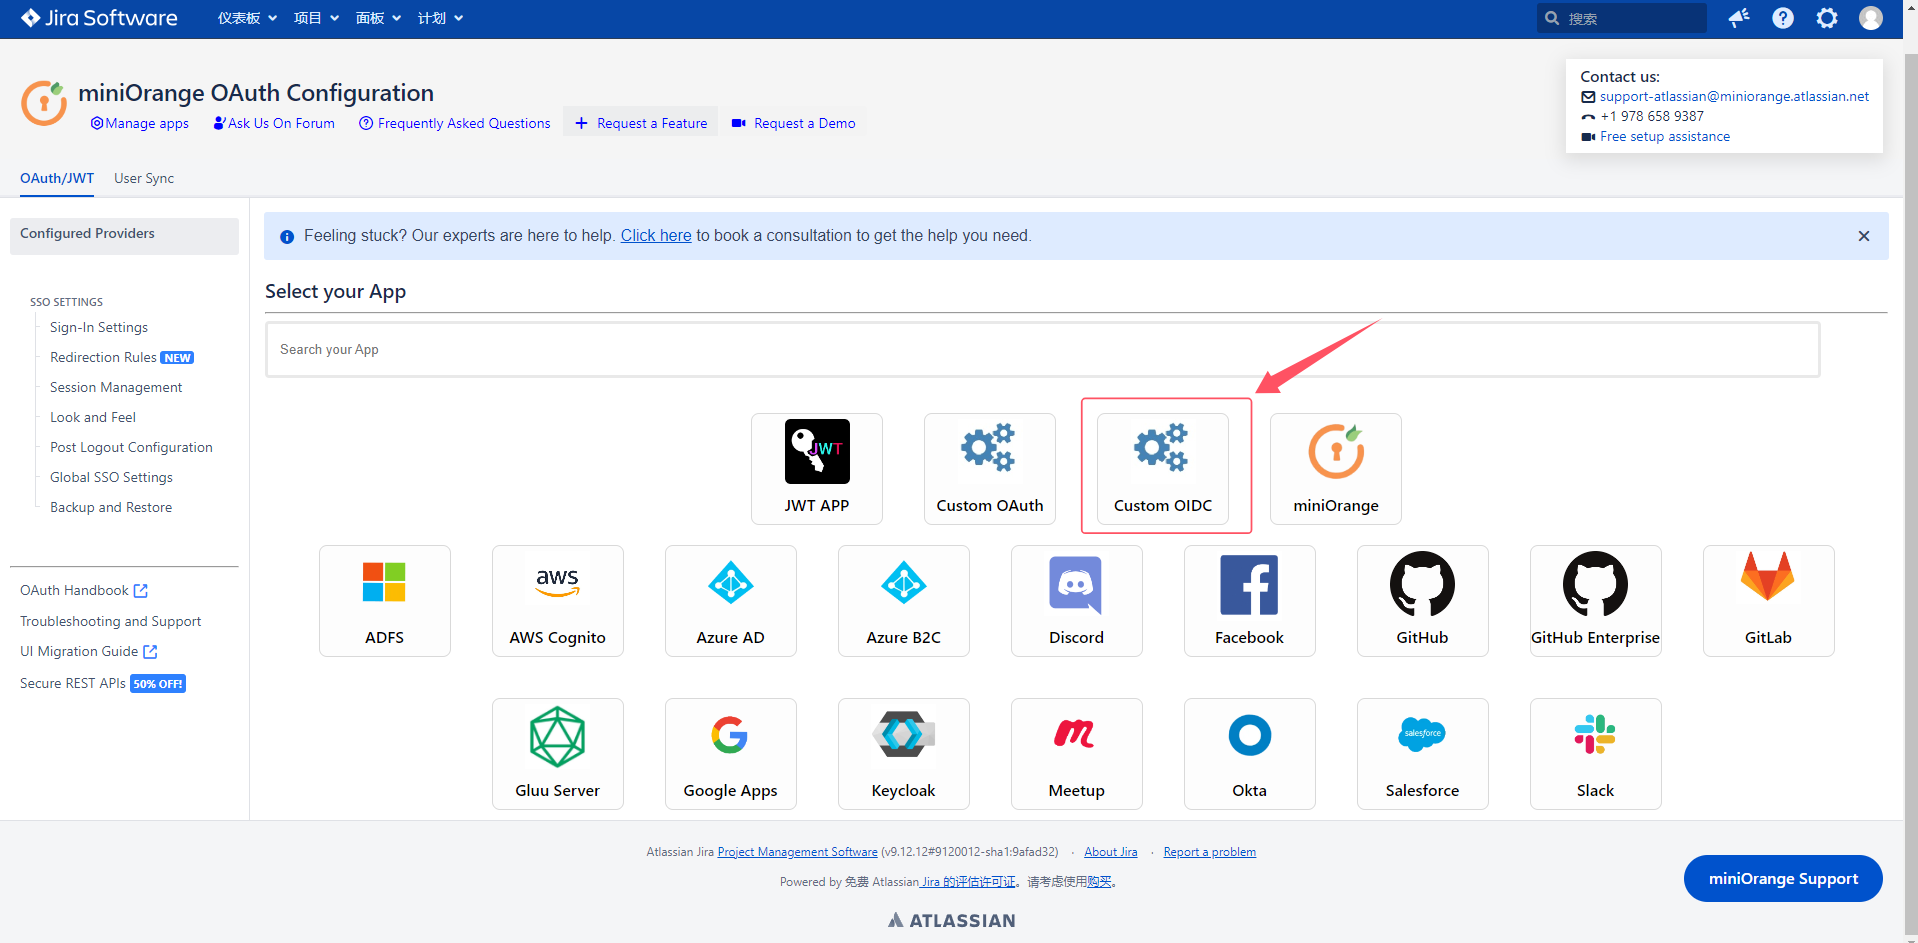
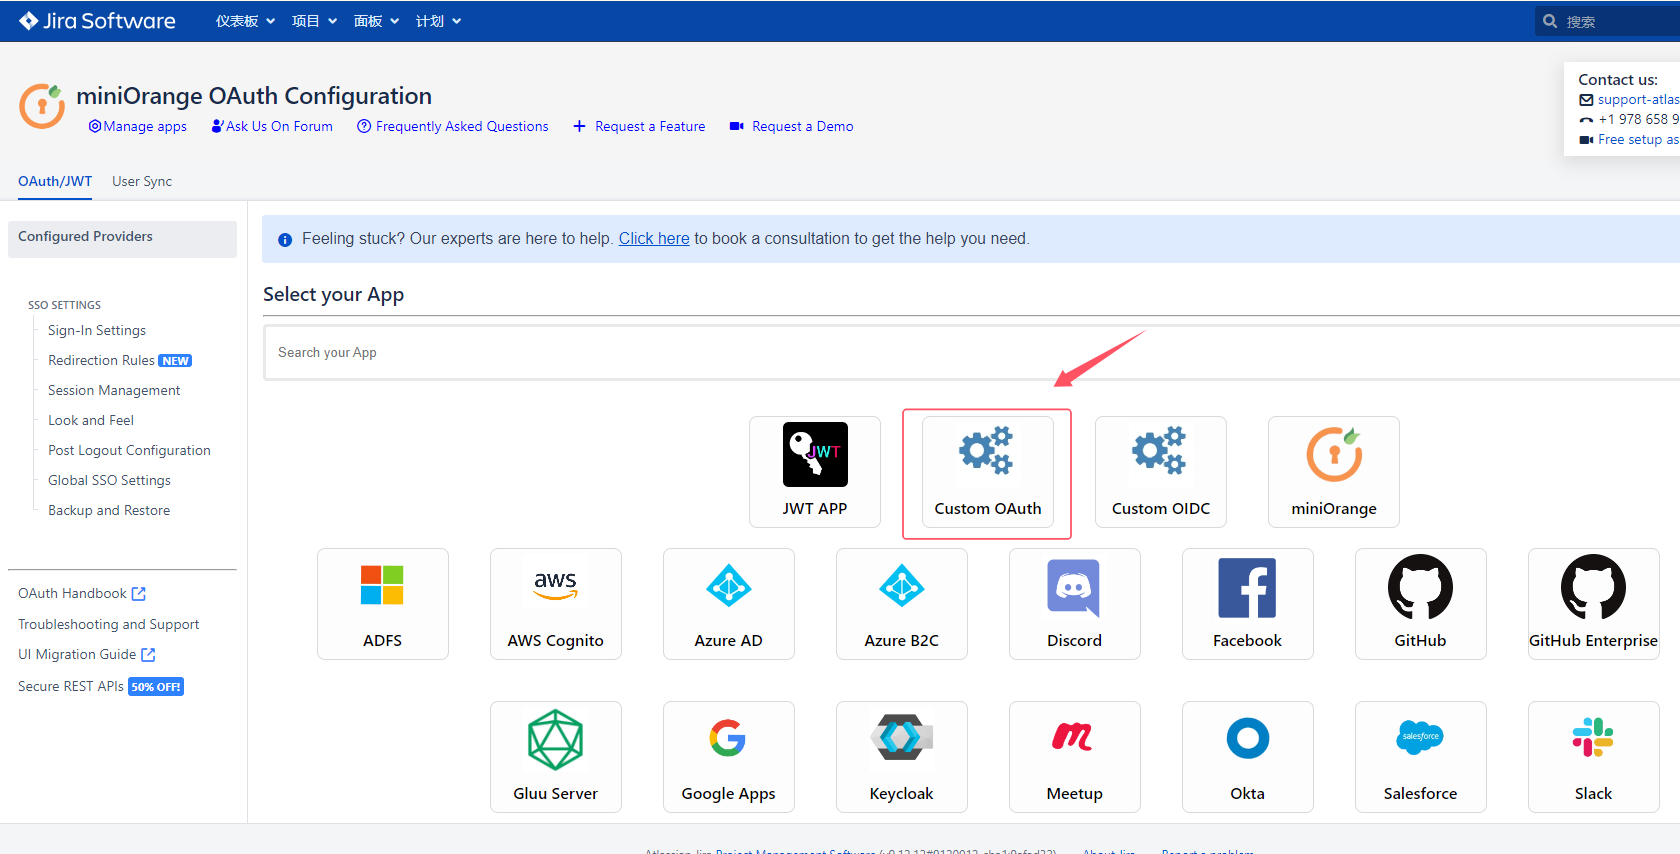
update：更新SSO登录相关文档

diff --git a/deploy/sso_example/confluence.md b/deploy/sso_example/confluence.md
@@ -1,38 +1,4 @@
-# Jenkins 单点登录
-支持的单点登录方式：OIDC
+# Confluence 单点登录
+支持的单点登录方式：OAuth2
 ## 配置方法
-1. **站点注册**：登录到平台，点击【资产管理】-【站点管理】-【新增】将Confluence站点信息注册到平台，配置如下所示：
-   ![img.png](img/jira-site.jpg)
-    * 站点名称：指定一个名称，便于用户区分。
-    * 登录地址：Confluence的登录地址。
-    * SSO认证：启用。
-    * 认证类型：选择`OAuth2`。
-    * 站点描述：描述信息。
-    * 回调地址：单点登录的回调地址，务必填写正确，默认为：`<protocol>://<address>[:<port>]/plugins/servlet/oauth/callback`。
-2. **应用安装**：登录到Jira并点击右上角齿轮进入【管理应用】，在应用商店搜索`OIDC SSO`，找到如下图所示的插件并安装。
-   ![img.png](img/confluence-marketplace.jpg)
-   应用安装完成后按提示申请1个30天免费适用License，并激活。
-   > **提示**：该应用过期后，无法使用单点登录，可以注册一个Atlassian账号，每月申请一个30天的免费License使用。
-3. **应用配置**：登录到Confluence并点击右上角齿轮进入【管理应用】，点击左侧的【miniOrange OAuth/OIDC SSO】进入OIDC配置。
-   点击【Add New App】按钮创建一个身份提供商，如下图所示：
-   ![img.png](img/confluence-config1.jpg)
-   选择【Custom OAuth】创建一个自定义OAuth应用，如下图所示：
-   ![img.png](img/confluence-config2.jpg)
-   将OAuth的配置信息填到下面的表单中，如下图所示：
-   ![img.png](img/confluence-config3.jpg)
-   * Custom App Name：可以自定义，用于显示在在Confluence的登录页
-   * Client Id：在平台站点详情中获取
-   * Client Secret：在平台站点详情中获取
-   * Scope：`openid`
-   * Authorization Endpoint：`<protocol>://<address>[:<port>]/login`
-   * Access Token Endpoint：`<protocol>://<address>[:<port>]/api/v1/sso/oauth/token`
-   * User Info Endpoint：`<protocol>://<address>[:<port>]/api/v1/sso/oauth/userinfo`  
-   配置完成后点击【Save】保存即可。
-   > **提示**：在此页面显示了Confluence正确的`Callback URL`，可以将此地址复制到平台的站点配置中覆盖之前的回调地址，以确保平台配置正确。
-5. **用户配置**：接上步，点击左侧的【User Profile】，需要进行用户属于配置，按如下图所示：
-   ![img.png](img/confluence-config5.jpg)
-    * Username Attribute：`username`
-    * Email Attribute：`email`
-    * Full Name Attribute：`name`
-6. **高级设置**：接上步，点击左侧的【Advanced Settings】找到`Send Parameters in Token Endpoint`，将值更改为`Http Body`，如下图所示：
-   ![img.png](img/confluence-config4.jpg)
+Confluence的配置文件与Jira一样，参考[Jira配置方法](https://github.com/yuyan075500/ops-api/blob/main/deploy/sso_example/jira.md "参考文档")即可。

diff --git a/deploy/sso_example/jira.md b/deploy/sso_example/jira.md
@@ -1,5 +1,5 @@
-# Jenkins 单点登录
-支持的单点登录方式：OIDC
+# Jira 单点登录
+支持的单点登录方式：OAuth2
 ## 配置方法
 1. **站点注册**：登录到平台，点击【资产管理】-【站点管理】-【新增】将Jira站点信息注册到平台，配置如下所示：
    ![img.png](img/jira-site.jpg)
@@ -17,19 +17,23 @@
 ![img.png](img/jira-app-config.jpg)
    接下来点击【Add New App】按钮创建一个身份提供商，如下图所示：
 ![img.png](img/jira-app-config1.jpg)
-   选择【Custom OIDC】创建一个自定义OIDC应用，如下图所示：
+   选择【Custom OAuth】创建一个自定义OAuth应用，如下图所示：
 ![img.png](img/jira-app-config2.jpg)
-   点击【Import Details】，将OIDC的配置信息导入到下面的表单中，如下图所示：
+   将OAuth的配置信息填到下面的表单中，如下图所示：
 ![img.png](img/jira-app-config3.jpg)
-   在打开的表单中，Well-Known Endpoint地址为平台的：`<protocol>://<address>[:<port>]/.well-known/openid-configuration`。导入成功后还需要填写应用的`Client Id`和`Client Secret`，这两项配置从平台的站点详情中获取。
+   * Custom App Name：可以自定义，用于显示在Jira的登录页
+   * Client Id：在平台站点详情中获取
+   * Client Secret：在平台站点详情中获取
+   * Scope：`openid`
+   * Authorization Endpoint：`<protocol>://<address>[:<port>]/login`
+   * Access Token Endpoint：`<protocol>://<address>[:<port>]/api/v1/sso/oauth/token`
+   * User Info Endpoint：`<protocol>://<address>[:<port>]/api/v1/sso/oauth/userinfo`  
    配置完成后点击【Save】保存即可。
-   > **提示**：
-   > * 在此页面显示了Jira正确的`Callback URL`，可以将此地址复制到平台的站点配置中覆盖之前的回调地址，以确保平台配置正确。
-   > * 表单中`Custom App Name`可以自定义，用于显示在在Jira的登录页。
-4. **用户配置**：接上步，点击左侧的【User Profile】，需要进行用户属于配置，按如下图所示：
+   > **提示**：在此页面显示了Jira正确的`Callback URL`，可以将此地址复制到平台的站点配置中覆盖之前的回调地址，以确保平台配置正确。
+5. **用户配置**：接上步，点击左侧的【User Profile】，需要进行用户属于配置，按如下图所示：
 ![img.png](img/jira-app-config5.jpg)
    * Username Attribute：`username`
    * Email Attribute：`email`
    * Full Name Attribute：`name`
-5. **高级设置**：接上步，点击左侧的【Advanced Settings】找到`Send Parameters in Token Endpoint`，将值更改为`Http Body`，如下图所示：
+6. **高级设置**：接上步，点击左侧的【Advanced Settings】找到`Send Parameters in Token Endpoint`，将值更改为`Http Body`，如下图所示：
 ![img.png](img/jira-app-config4.jpg)
